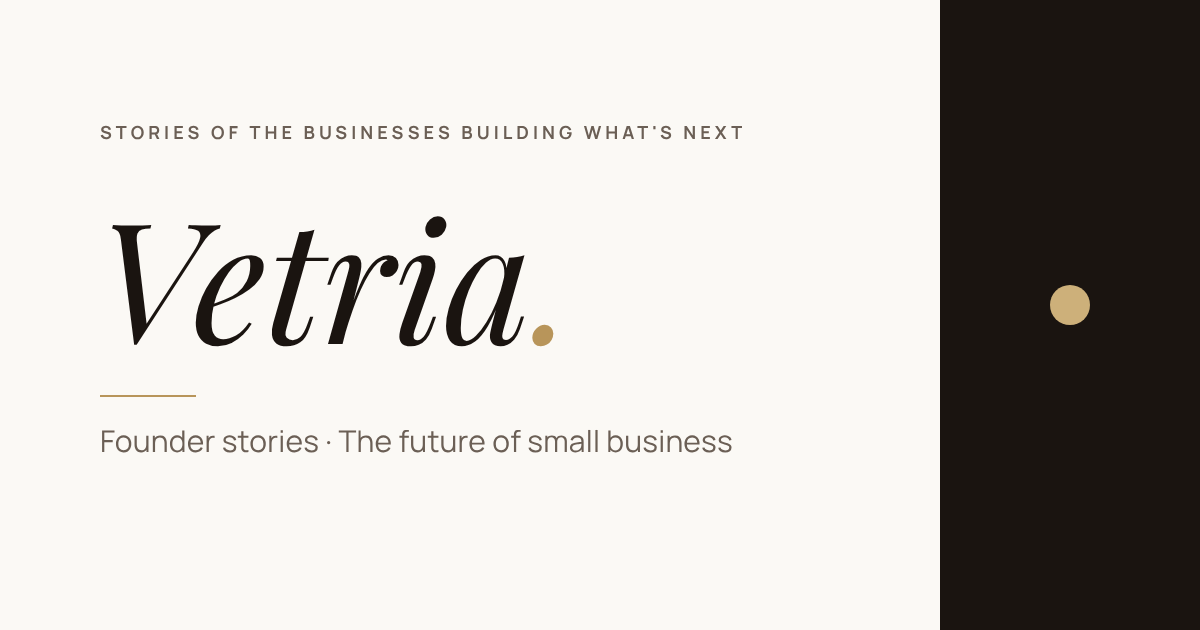
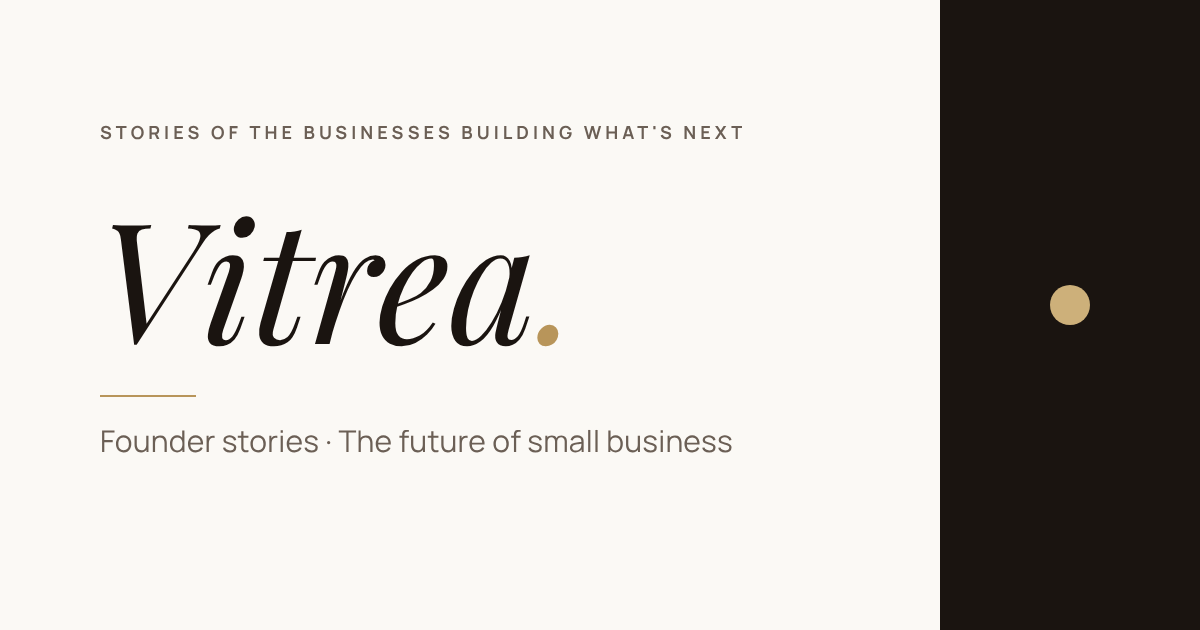
Correct the brand name to Vitrea and set the domain to vitreaonline.in
Fixes the misspelling "Vetria" in the wordmark, emblem, all page copy,
titles, structured data, share card and README. Canonical URLs, the
sitemap and robots.txt now default to https://vitreaonline.in
(NEXT_PUBLIC_SITE_URL can still override it). Internal CSS class names
keep their vetria- prefix; they are not visible to visitors.

Claude-Session: https://claude.ai/code/session_019nqrrCHcQCGCzMPbv9HWuD

Changed region(s): [[0.1542, 0.3317, 0.4625, 0.573]]

diff --git a/app/about/page.tsx b/app/about/page.tsx
@@ -7,9 +7,9 @@ import StoryImage from "../components/StoryImage";
 export const metadata: Metadata = pageMeta({
   path: "/about",
   absoluteTitle: true,
-  title: "About Vetria | Founder stories and the future of business",
+  title: "About Vitrea | Founder stories and the future of business",
   description:
-    "Vetria is an independent media brand telling the stories of founders and independent businesses, and explaining where small-business marketing is heading.",
+    "Vitrea is an independent media brand telling the stories of founders and independent businesses, and explaining where small-business marketing is heading.",
 });
 
 const pillars = [
@@ -54,12 +54,12 @@ export default function AboutPage() {
 
       <main id="main">
         <section className="vetria-about__intro" aria-label="Introduction">
-          <span className="vetria-kicker">About Vetria</span>
+          <span className="vetria-kicker">About Vitrea</span>
           <h1 className="vetria-about__title">
             Stories of the businesses <em>building what&apos;s next.</em>
           </h1>
           <p className="vetria-about__lead">
-            Vetria is an independent media brand for founders, owners and the people who back them. We
+            Vitrea is an independent media brand for founders, owners and the people who back them. We
             tell the stories of small businesses with the care big companies get, and explain where
             business is heading.
           </p>
@@ -123,16 +123,16 @@ export default function AboutPage() {
         <section className="vetria-container vetria-about__founder" aria-labelledby="founder-title">
           <StoryImage src={null} alt="[Founder portrait]" height={420} className="vetria-about__portrait" />
           <div className="vetria-about__founder-text">
-            <span className="vetria-kicker">Who&apos;s behind Vetria</span>
+            <span className="vetria-kicker">Who&apos;s behind Vitrea</span>
             <h2 id="founder-title" className="vetria-about__founder-title">
               [Founder name], founder and editor
             </h2>
             <p>
               [Two or three sentences in your own voice: your background in brand strategy and content,
-              why you started Vetria, and what you want it to be for founders.]
+              why you started Vitrea, and what you want it to be for founders.]
             </p>
             <p className="vetria-about__muted">
-              [Optional line on contributors: &ldquo;Vetria works with a small group of writers and
+              [Optional line on contributors: &ldquo;Vitrea works with a small group of writers and
               contributors around the world.&rdquo;]
             </p>
           </div>
@@ -153,7 +153,7 @@ export default function AboutPage() {
         </div>
         <div className="vetria-about__footer-bottom">
           <div className="vetria-container vetria-about__footer-row">
-            <span>© 2026 Vetria</span>
+            <span>© 2026 Vitrea</span>
             <span>Paid partnerships are always labelled Sponsored.</span>
           </div>
         </div>

diff --git a/app/editorial-policy/page.tsx b/app/editorial-policy/page.tsx
@@ -8,7 +8,7 @@ export const metadata: Metadata = pageMeta({
   path: "/editorial-policy",
   title: "Editorial policy: how we choose and label stories",
   description:
-    "How Vetria chooses which businesses to feature, keeps editorial independent, labels sponsored content, checks facts and handles corrections.",
+    "How Vitrea chooses which businesses to feature, keeps editorial independent, labels sponsored content, checks facts and handles corrections.",
 });
 
 const sections = [
@@ -31,7 +31,7 @@ export default function EditorialPolicyPage() {
           <span className="vetria-kicker">Editorial policy</span>
           <h1 className="vetria-ep__title">How we choose, write and label what we publish</h1>
           <p className="vetria-ep__lead">
-            Trust is the reason a Vetria feature means something. These are the rules we hold
+            Trust is the reason a Vitrea feature means something. These are the rules we hold
             ourselves to.
           </p>
           <p className="vetria-ep__updated">Last updated [Date]</p>
@@ -64,13 +64,13 @@ export default function EditorialPolicyPage() {
             <section id="independence" aria-labelledby="independence-h">
               <h2 id="independence-h">Independence</h2>
               <p>
-                <strong>Editorial features are never paid for.</strong> No business can buy a Vetria
+                <strong>Editorial features are never paid for.</strong> No business can buy a Vitrea
                 Feature, a place in a series, or a better review. Advertisers and sponsors have no say
                 over editorial stories.
               </p>
               <p>
                 If we have a personal or business relationship with someone we feature, including as a
-                client of a company connected to Vetria, we say so at the top of the story.
+                client of a company connected to Vitrea, we say so at the top of the story.
               </p>
             </section>
 
@@ -79,7 +79,7 @@ export default function EditorialPolicyPage() {
               <p>Businesses can pay for a sponsored spotlight. When they do, you&apos;ll always know:</p>
               <div className="vetria-ep__labels">
                 <div className="vetria-ep__label-card">
-                  <span className="vetria-badge">Vetria Feature</span>
+                  <span className="vetria-badge">Vitrea Feature</span>
                   <span>Editorial. Chosen by our editors. Never paid for.</span>
                 </div>
                 <div className="vetria-ep__label-card">
@@ -102,7 +102,7 @@ export default function EditorialPolicyPage() {
               </p>
               <p>
                 [Your policy, choose one: &ldquo;Subjects can check facts and quotes before
-                publication; editorial decisions stay with Vetria.&rdquo; or &ldquo;We don&apos;t share
+                publication; editorial decisions stay with Vitrea.&rdquo; or &ldquo;We don&apos;t share
                 stories before publication.&rdquo;]
               </p>
             </section>

diff --git a/app/get-featured/page.tsx b/app/get-featured/page.tsx
@@ -9,9 +9,9 @@ import ApplicationForm from "./ApplicationForm";
 export const metadata: Metadata = pageMeta({
   path: "/get-featured",
   absoluteTitle: true,
-  title: "Get your business featured in Vetria | Free founder features",
+  title: "Get your business featured in Vitrea | Free founder features",
   description:
-    "Apply to have your business featured in Vetria. Editorial features are free and chosen by our editors. Tell us your founder story in about ten minutes.",
+    "Apply to have your business featured in Vitrea. Editorial features are free and chosen by our editors. Tell us your founder story in about ten minutes.",
 });
 
 const steps = [
@@ -20,7 +20,7 @@ const steps = [
   { title: "Interview", text: "A written Q&A or a short call, plus photos or a short reel of your space." },
   {
     title: "Published",
-    text: "Your feature goes live on the site and Instagram, with a Featured in Vetria badge to share.",
+    text: "Your feature goes live on the site and Instagram, with a Featured in Vitrea badge to share.",
   },
 ];
 
@@ -37,9 +37,9 @@ const faqs = [
   },
   {
     q: "Can I see the feature before it goes live?",
-    a: "[Your policy: e.g. you can check facts and quotes; editorial decisions stay with Vetria.]",
+    a: "[Your policy: e.g. you can check facts and quotes; editorial decisions stay with Vitrea.]",
   },
-  { q: "Which countries do you cover?", a: "Anywhere. Vetria is published in English for a global audience." },
+  { q: "Which countries do you cover?", a: "Anywhere. Vitrea is published in English for a global audience." },
 ];
 
 // FAQ structured data: only answers that are final (placeholders in [brackets] are left out).
@@ -68,7 +68,7 @@ export default function GetFeaturedPage() {
             <span className="vetria-kicker">Get featured</span>
             <h1 className="vetria-gf__title">Your story, told properly.</h1>
             <p className="vetria-gf__lead">
-              Vetria features founders and independent businesses building something worth knowing
+              Vitrea features founders and independent businesses building something worth knowing
               about. Editorial features are free and chosen by our editors.
             </p>
             <a href="#apply" className="vetria-btn vetria-btn--primary vetria-gf__start">
@@ -122,11 +122,11 @@ export default function GetFeaturedPage() {
             </div>
             <div className="vetria-gf__ways-grid">
               <div className="vetria-gf__way">
-                <span className="vetria-badge">Vetria Feature</span>
+                <span className="vetria-badge">Vitrea Feature</span>
                 <span className="vetria-gf__way-price">Free</span>
                 <p>
                   Chosen by our editors. Written in your words, published on the site and Instagram,
-                  with a Featured in Vetria badge.
+                  with a Featured in Vitrea badge.
                 </p>
                 <a href="#apply" className="vetria-btn vetria-btn--inverse">Apply</a>
               </div>

diff --git a/app/newsletter/page.tsx b/app/newsletter/page.tsx
@@ -8,13 +8,13 @@ import SignupForm from "../components/SignupForm";
 export const metadata: Metadata = pageMeta({
   path: "/newsletter",
   absoluteTitle: true,
-  title: "The Vetria Letter | A weekly newsletter for founders",
+  title: "The Vitrea Letter | A weekly newsletter for founders",
   description:
     "One founder story and one look ahead at small-business marketing, every week. A short, free newsletter for people who run a business worth talking about.",
 });
 
 const benefits = [
-  "The week's best Vetria feature, condensed to a five-minute read",
+  "The week's best Vitrea feature, condensed to a five-minute read",
   "One shift in marketing or AI, and what it means for a small business",
   "A first look at businesses we're about to feature",
 ];
@@ -25,7 +25,7 @@ export default function NewsletterPage() {
     <div className="vetria-nl">
       <header className="vetria-nl__header">
         <div className="vetria-container vetria-nl__header-inner">
-          <Link href="/" aria-label="Vetria home">
+          <Link href="/" aria-label="Vitrea home">
             <Wordmark size={40} />
           </Link>
           <Link href="/" className="vetria-text-link">
@@ -36,7 +36,7 @@ export default function NewsletterPage() {
 
       <main id="main" className="vetria-container vetria-nl__main">
         <div className="vetria-nl__text">
-          <span className="vetria-kicker">The Vetria letter · Weekly</span>
+          <span className="vetria-kicker">The Vitrea letter · Weekly</span>
           <h1 className="vetria-nl__title">
             <span>One founder story.</span>
             <em>One look ahead.</em>
@@ -92,7 +92,7 @@ export default function NewsletterPage() {
 
       <footer className="vetria-nl__footer">
         <div className="vetria-container vetria-nl__footer-inner">
-          <span>© 2026 Vetria</span>
+          <span>© 2026 Vitrea</span>
           <span>
             <Link href="/editorial-policy">Editorial policy</Link> · [Privacy policy]
           </span>

diff --git a/app/lib/site.ts b/app/lib/site.ts
@@ -1,16 +1,15 @@
 // Site-wide facts used for SEO: canonical URLs, sitemap, robots and structured data.
 //
-// Set NEXT_PUBLIC_SITE_URL to the live domain (e.g. https://www.yourdomain.com) in Vercel:
-// Project → Settings → Environment Variables. Without it, URLs fall back to localhost,
-// which is fine for local work but must not ship.
-const rawUrl = process.env.NEXT_PUBLIC_SITE_URL || "http://localhost:3000";
+// The live domain. NEXT_PUBLIC_SITE_URL (set in Vercel: Project → Settings → Environment
+// Variables) overrides it, e.g. if the site is served from www.vitreaonline.in instead.
+const rawUrl = process.env.NEXT_PUBLIC_SITE_URL || "https://vitreaonline.in";
 
 export const site = {
-  name: "Vetria",
+  name: "Vitrea",
   url: rawUrl.replace(/\/$/, ""),
   tagline: "Stories of the businesses building what's next",
   description:
-    "Vetria is an independent media brand featuring founders and independent businesses, and explaining where small-business marketing is heading.",
+    "Vitrea is an independent media brand featuring founders and independent businesses, and explaining where small-business marketing is heading.",
   locale: "en",
   // TODO: add the real profile URLs once the handles are locked (Instagram, LinkedIn…).
   // These become "sameAs" in structured data, which helps Google and AI search recognise the brand.

diff --git a/app/components/Emblem.tsx b/app/components/Emblem.tsx
@@ -6,7 +6,7 @@ type EmblemProps = {
   decorative?: boolean;
 };
 
-// The "Featured in Vetria" emblem: a V monogram ringed by the tagline.
+// The "Featured in Vitrea" emblem: a V monogram ringed by the tagline.
 // Badge only — never use it as the main logo.
 export default function Emblem({ size = 160, tone = "cream", decorative = true }: EmblemProps) {
   const ringId = useId();
@@ -23,7 +23,7 @@ export default function Emblem({ size = 160, tone = "cream", decorative = true }
       viewBox="0 0 300 300"
       {...(decorative
         ? { "aria-hidden": true }
-        : { role: "img", "aria-label": "Featured in Vetria" })}
+        : { role: "img", "aria-label": "Featured in Vitrea" })}
     >
       <defs>
         <path
@@ -43,7 +43,7 @@ export default function Emblem({ size = 160, tone = "cream", decorative = true }
         style={{ fontFamily: "var(--font-body)" }}
       >
         <textPath href={`#${ringId}`} textLength="690" lengthAdjust="spacing">
-          VETRIA · STORIES OF WHAT&apos;S NEXT ·
+          VITREA · STORIES OF WHAT&apos;S NEXT ·
         </textPath>
       </text>
       <text

diff --git a/app/features/[slug]/page.tsx b/app/features/[slug]/page.tsx
@@ -99,7 +99,7 @@ export default async function FeatureArticlePage({ params }: Props) {
         <article>
           <header className="vetria-article__head">
             <div className="vetria-article__labels">
-              <span className="vetria-badge">Vetria Feature</span>
+              <span className="vetria-badge">Vitrea Feature</span>
               <span className="vetria-kicker">{story.kicker}</span>
             </div>
             <h1 className="vetria-article__title">{story.title}</h1>
@@ -169,7 +169,7 @@ export default async function FeatureArticlePage({ params }: Props) {
         </div>
         <div className="vetria-article__footer-bottom">
           <div className="vetria-container vetria-article__footer-row">
-            <span>© 2026 Vetria</span>
+            <span>© 2026 Vitrea</span>
             <span>Paid partnerships are always labelled Sponsored.</span>
           </div>
         </div>

diff --git a/app/page.tsx b/app/page.tsx
@@ -8,7 +8,7 @@ import GetFeaturedBand from "./components/GetFeaturedBand";
 import Newsletter from "./components/Newsletter";
 import Footer from "./components/Footer";
 
-// Homepage layout follows the Vetria website design (Home artboard):
+// Homepage layout follows the Vitrea website design (Home artboard):
 // announcement bar → header → cover story → latest features → The Future →
 // series → get featured → newsletter → footer.
 // Copy and placeholders live in app/content/home.ts.
@@ -19,7 +19,7 @@ export default function Home() {
       <Navbar />
 
       <main id="main">
-        <h1 className="sr-only">Vetria: stories of the businesses building what&apos;s next</h1>
+        <h1 className="sr-only">Vitrea: stories of the businesses building what&apos;s next</h1>
         <CoverStory />
         <LatestFeatures />
         <TheFuture />

diff --git a/app/components/Wordmark.tsx b/app/components/Wordmark.tsx
@@ -3,7 +3,7 @@ type WordmarkProps = {
   tone?: "dark" | "light";
 };
 
-// The primary logo: "Vetria." in Playfair Display Italic with a gold full stop.
+// The primary logo: "Vitrea." in Playfair Display Italic with a gold full stop.
 // tone="dark" = espresso text for cream grounds; tone="light" = cream text for espresso grounds.
 // Styles live in globals.css (.vetria-wordmark) because the mark is used in several places.
 export default function Wordmark({ size = 40, tone = "dark" }: WordmarkProps) {
@@ -12,7 +12,7 @@ export default function Wordmark({ size = 40, tone = "dark" }: WordmarkProps) {
       className={`vetria-wordmark vetria-wordmark--${tone}`}
       style={{ fontSize: size }}
     >
-      Vetria<span className="vetria-wordmark__dot">.</span>
+      Vitrea<span className="vetria-wordmark__dot">.</span>
     </span>
   );
 }

diff --git a/app/globals.css b/app/globals.css
@@ -1,5 +1,5 @@
 /* =========================================
-   VETRIA — GLOBAL STYLES
+   VITREA — GLOBAL STYLES
    Brand kit v1 "Gilded press": tokens, reset and shared utilities.
    Component styles live next to each component in app/components.
    ========================================= */
@@ -93,7 +93,7 @@ h6 {
   --cream: #fbf9f5;      /* the paper: page ground (token name kept for compatibility) */
   --espresso: #1a1410;   /* the ink: text, logo, buttons, dark bands */
   --gold: #b8955a;       /* accent only: rules, the full stop, details. Never text on paper */
-  --burgundy: #6e1e2a;   /* signal: Vetria Feature badge, once per layout */
+  --burgundy: #6e1e2a;   /* signal: Vitrea Feature badge, once per layout */
 
   /* Supporting tones */
   --paper: #f4f0e8;      /* quiet bands and raised cards */

diff --git a/app/components/SimpleFooter.tsx b/app/components/SimpleFooter.tsx
@@ -7,10 +7,10 @@ export default function SimpleFooter() {
     <>
       <footer className="vetria-simple-footer">
         <div className="vetria-container vetria-simple-footer__inner">
-          <Link href="/" aria-label="Vetria home">
+          <Link href="/" aria-label="Vitrea home">
             <Wordmark size={28} tone="light" />
           </Link>
-          <span>Paid partnerships are always labelled Sponsored. © 2026 Vetria</span>
+          <span>Paid partnerships are always labelled Sponsored. © 2026 Vitrea</span>
         </div>
       </footer>
 

diff --git a/app/get-featured/ApplicationForm.tsx b/app/get-featured/ApplicationForm.tsx
@@ -155,7 +155,7 @@ export default function ApplicationForm() {
           <input {...field("agree")} type="checkbox" checked={fields.agree}
             onChange={(e) => set("agree", e.target.checked)} />
           <label htmlFor="gf-agree">
-            I understand editorial features are chosen by Vetria&apos;s editors and are never paid for.
+            I understand editorial features are chosen by Vitrea&apos;s editors and are never paid for.
           </label>
         </div>
         {error("agree")}
